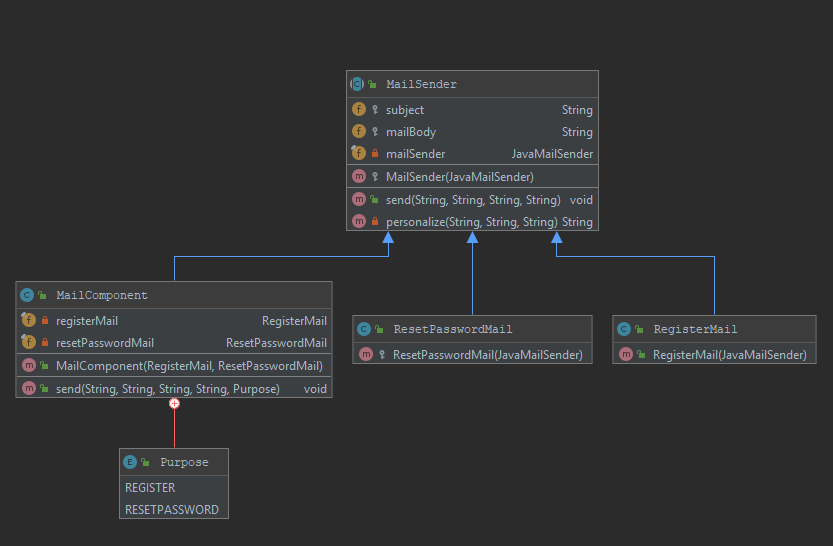
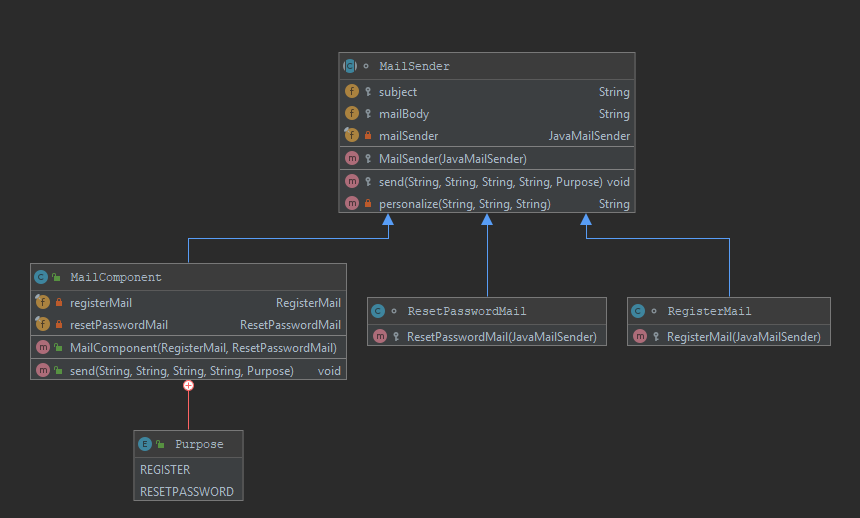
final after

Changed region(s): [[0.0, 0.0927, 0.9988, 0.7722], [0.1248, 0.8031, 0.2809, 0.9575], [0.6867, 0.4633, 0.8739, 0.4942]]

diff --git a/backend/src/main/java/server/modules/mailsender/MailSender.java b/backend/src/main/java/server/modules/mailsender/MailSender.java
@@ -5,7 +5,7 @@ import org.springframework.mail.javamail.JavaMailSender;
 import org.springframework.stereotype.Component;
 
 @Component
-public abstract class MailSender {
+abstract class MailSender {
 
     protected String subject;
     protected String mailBody;
@@ -15,7 +15,7 @@ public abstract class MailSender {
         this.mailSender = mailSender;
     }
 
-    public void send(String mailTo, String username, String id, String token) {
+    protected void send(String mailTo, String username, String id, String token, MailComponent.Purpose purpose) {
         SimpleMailMessage email = new SimpleMailMessage();
         //TODO email.setTo(mailTo);
         email.setTo("flashcardcommunity@gmail.com");

diff --git a/backend/src/main/java/server/modules/mailsender/MailComponent.java b/backend/src/main/java/server/modules/mailsender/MailComponent.java
@@ -19,13 +19,14 @@ public class MailComponent extends MailSender {
         this.resetPasswordMail = resetPasswordMail;
     }
 
+    @Override
     public void send(String mailTo, String username, String id, String token, Purpose purpose){
         switch (purpose){
             case REGISTER:
-                registerMail.send(mailTo, username, id, token);
+                registerMail.send(mailTo, username, id, token, purpose);
                 break;
             case RESETPASSWORD:
-                resetPasswordMail.send(mailTo, username, id, token);
+                resetPasswordMail.send(mailTo, username, id, token, purpose);
         }
     }
 }

diff --git a/backend/src/main/java/server/modules/mailsender/RegisterMail.java b/backend/src/main/java/server/modules/mailsender/RegisterMail.java
@@ -6,10 +6,10 @@ import org.springframework.stereotype.Component;
 import server.config.Lang;
 
 @Component
-public class RegisterMail extends MailSender {
+class RegisterMail extends MailSender {
 
     @Autowired
-    public RegisterMail(JavaMailSender mailSender) {
+    protected RegisterMail(JavaMailSender mailSender) {
         super(mailSender);
         this.mailBody = Lang.mailText;
         this.subject = "Registration Confirmation";

diff --git a/backend/src/main/java/server/modules/mailsender/ResetPasswordMail.java b/backend/src/main/java/server/modules/mailsender/ResetPasswordMail.java
@@ -6,7 +6,7 @@ import org.springframework.stereotype.Component;
 import server.config.Lang;
 
 @Component
-public class ResetPasswordMail extends MailSender {
+class ResetPasswordMail extends MailSender {
 
     @Autowired
     protected ResetPasswordMail(JavaMailSender mailSender) {
